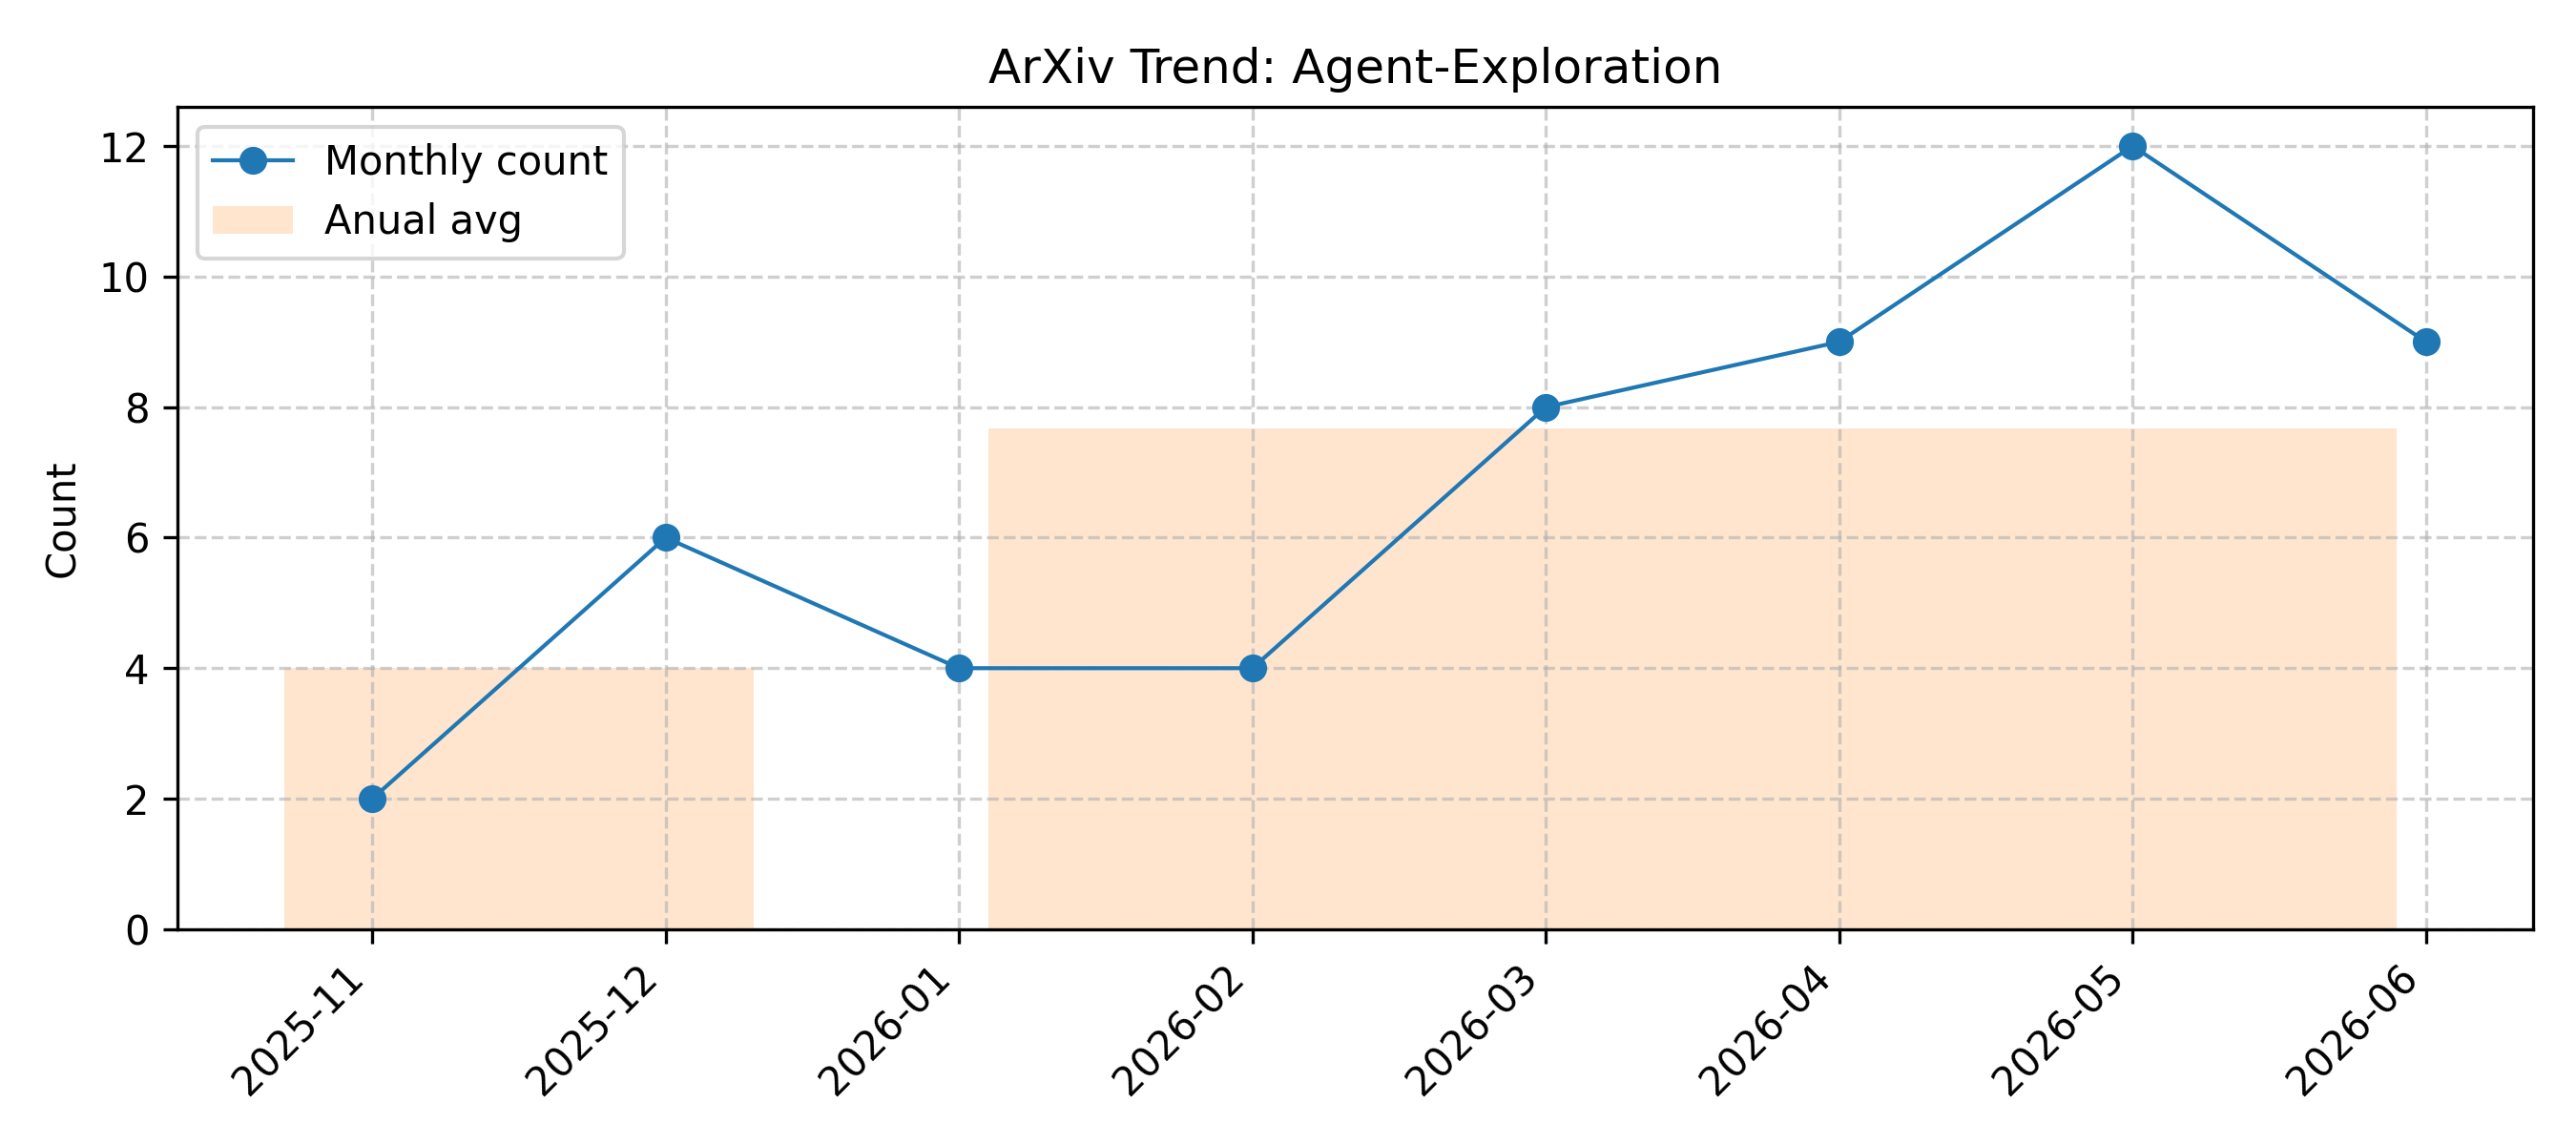
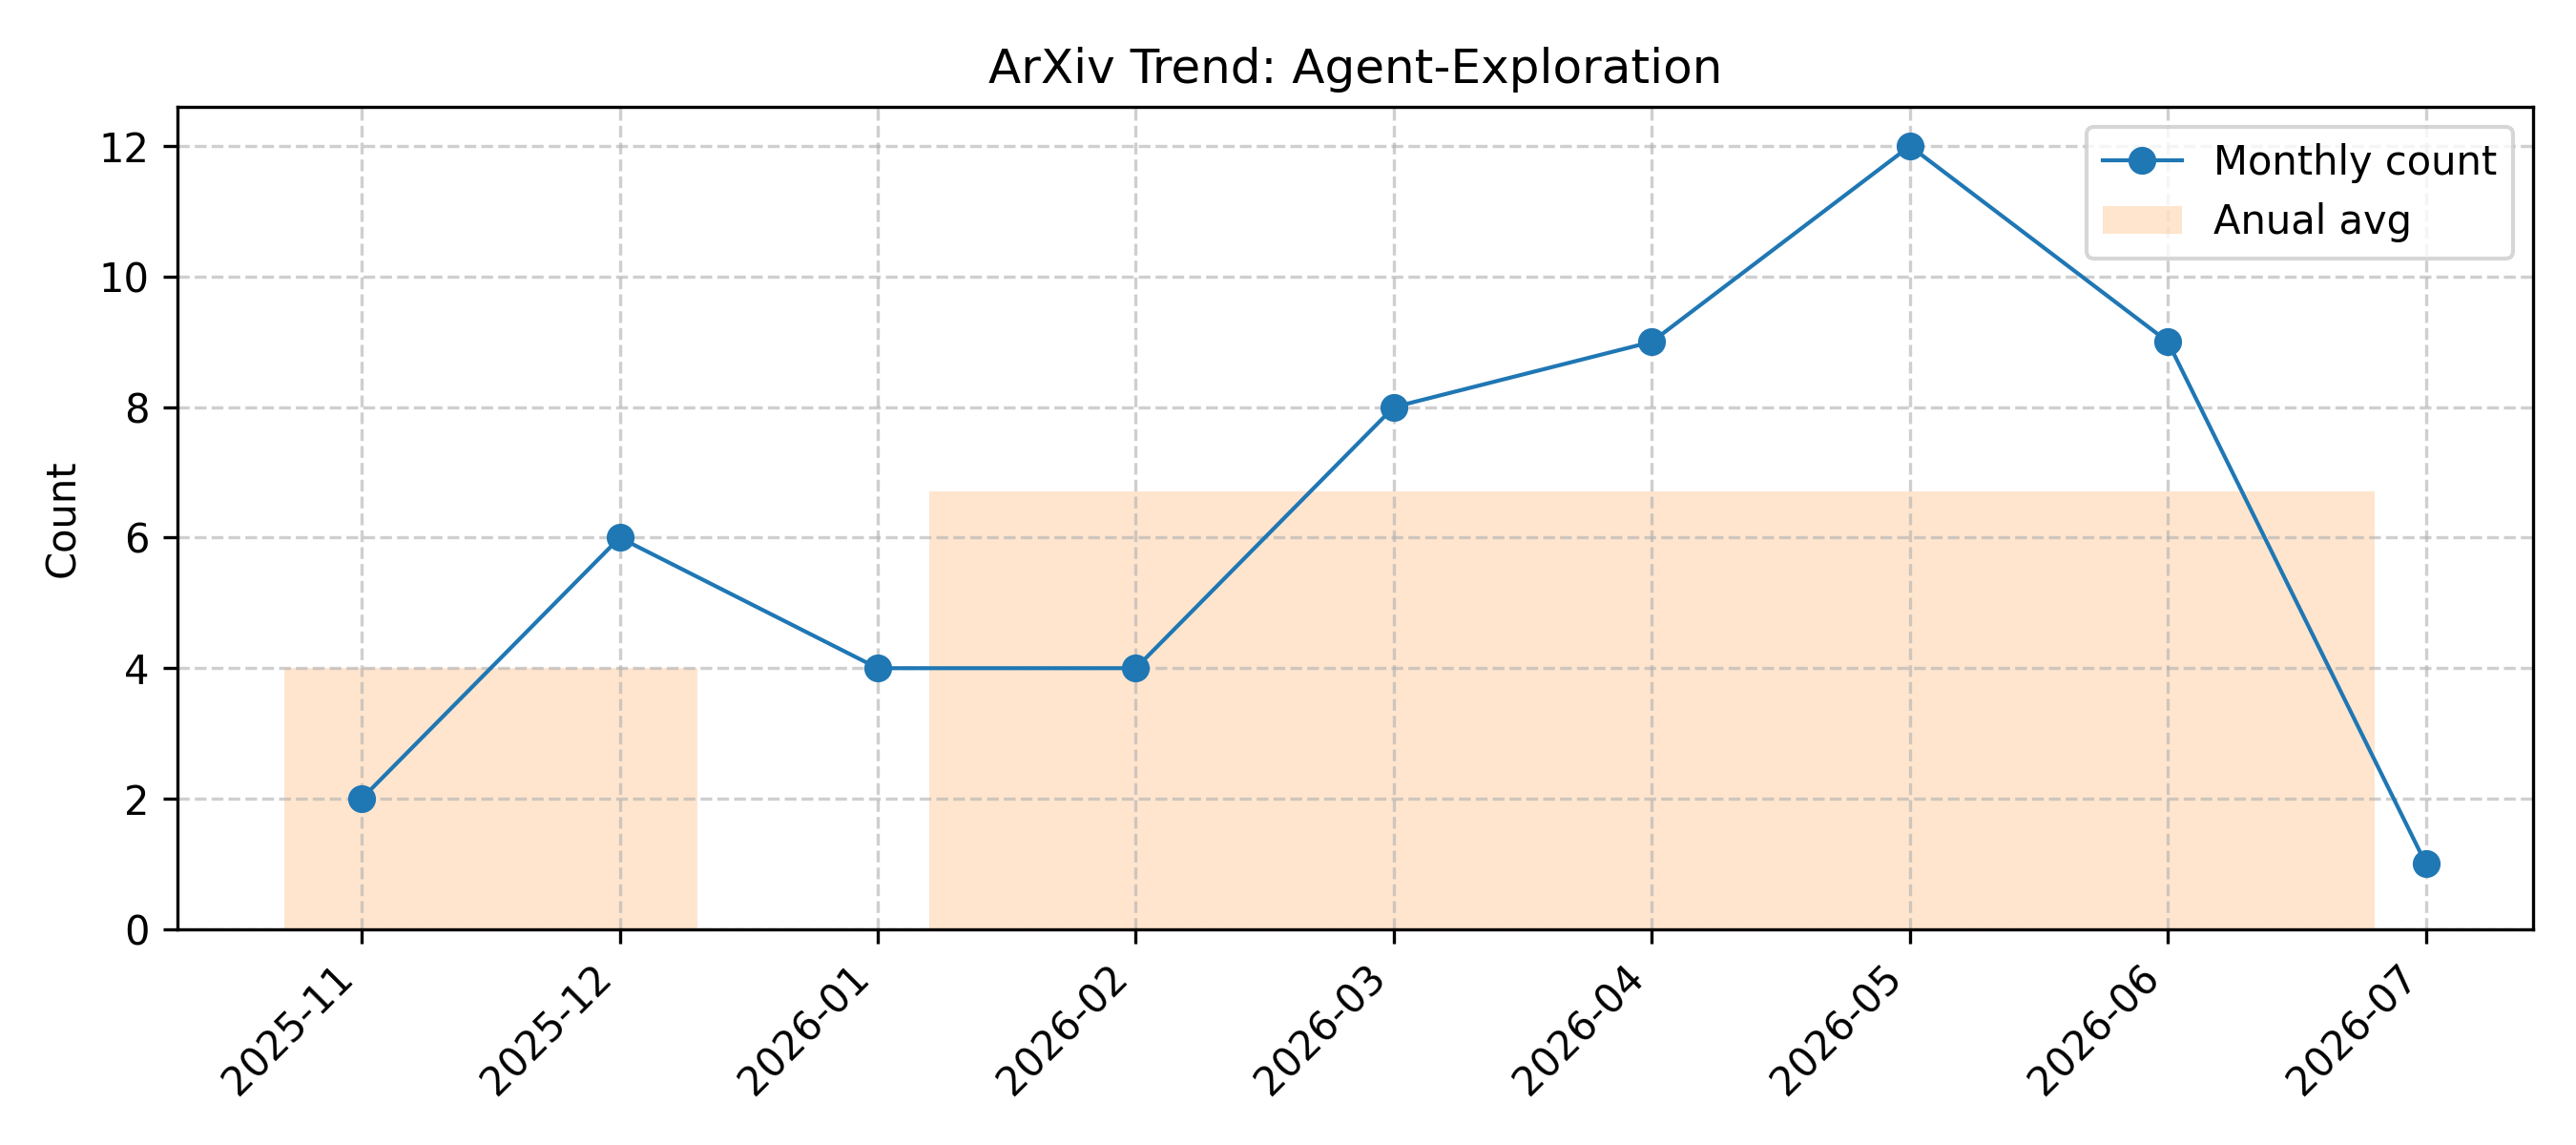
Github Action Automatic Update Arxiv Papers

diff --git a/CodeGeneration_LLM.md b/CodeGeneration_LLM.md
@@ -1,6 +1,6 @@
 # CodeGeneration_LLM
 
-> Updated on 2026.07.08
+> Updated on 2026.07.10
 
 [🔙 Back to Index](README.md)
 
@@ -8,6 +8,11 @@
 
 | Date | Title | Categories | Abstract | PDF | Code |
 |:---|:---|:---|:---|:---|:---|
+|**2026-07-09**|**Tool-Making and Self-Evolving LLM Agents in Low-Latency Systems**|cs.CL, cs.LG, cs.SE| <details><summary>Full Abstract</summary>Production LLM agents often waste latency and reliability by regenerating code for the same procedural steps on every request. We replace this inference-time coding loop with an agentic tool-making pipeline that compiles repeated SOP steps into validated, versioned tools before deployment. The tool-maker grounds synthesis in the live environment as it collects execution traces, observes backend schemas and values, generates candidate tools, and repairs them against labeled cases. At runtime, the production agent calls these tools directly and falls back to code generation only when needed. We deploy the approach in a Fulfillment Center alarm-triage system, where an agent diagnoses alarms against a 44-node SOP over heterogeneous metric backends. In production, tool calls reduce p50 latency by 42%. On 1,500 historical alarms, they reduce end-to-end error rate by up to 53% by suppressing run-to-run variance in repeated steps. Because tools return compact structured verdicts, they also enable a simpler direct-call architecture, reducing p50 latency by a further 62% in a controlled ablation. Versioned tools also improve auditability and expose specification gaps and upstream data drift. Our results show that self-evolving agents can make industrial LLM systems faster, more reliable, and easier to operate.</details>|[2607.08010v1](http://arxiv.org/abs/2607.08010v1)| null|
+|**2026-07-08**|**Functional and Secure Code Generation with Task Vectors**|cs.SE, cs.CR, cs.LG| <details><summary>Full Abstract</summary>Large language models (LLMs) are increasingly used for code generation, but they struggle to generate functional code free of security vulnerabilities. Prior work to improve the secure code generation abilities of such coding LLMs has largely focused on evaluating code functionality and security separately using different datasets, or focused on finding vulnerabilities post-generation. At the same time, the text-generation domain has seen significant work on alignment techniques, where models are tuned such that their outputs exhibit certain qualities (e.g., helpfulness, harmlessness). Of particular interest is task-vector arithmetic, where linear operations on LLM weights can be used to arbitrarily enhance alignment while incurring only minimal computational overhead. We develop a novel method, SecVecCoder, leveraging task vectors to produce trustworthy code that is simultaneously functional and secure without the need for post-generation adjustment. Across six coding LLMs from three families on the CodeGuard+ benchmark, SecVecCoder improves the rate of trustworthy code completions by 2.1-36.0 percentage points over the base model, with improvements on unseen CWE types reaching up to 39.1 percentage points. Since the effectiveness of the coding LLM relies only on changing the model weights, SecVecCoder requires no method-specific decoding and hence achieves a decoding latency within 0.6% of the base model's, on average.</details>|[2607.07881v1](http://arxiv.org/abs/2607.07881v1)| null|
+|**2026-07-08**|**Selective Left-Shift: Turning Test-Time Compute and Difficulty-based Curation into Training Data for Low-Resource Code Generation**|cs.LG| <details><summary>Full Abstract</summary>Large Language Models achieve strong code generation for high resource languages like Python and Java but suffer sharp performance drops on Low-Resource Programming Languages~(LRPLs) such as Julia. Improving Small Language Models~(SLMs) for these languages faces a trilemma: Supervised Fine-Tuning~(SFT) is bottlenecked by data scarcity, inference-time scaling is too expensive for deployment, and Reinforcement Learning from scratch yields near zero advantages. We propose a three-phase pipeline that resolves this trilemma by decoupling syntax acquisition from algorithmic reasoning. First, we \emph{left-shift} inference-time compute to an offline data synthesis engine that uses iterative compiler and test feedback to generate verified training examples. Second, we fine-tune an SLM on this synthetic, verified data to embed strong syntactic priors. Third, we apply Reinforcement Learning with Verifiable Reward~(RLVR) grounded by language-agnostic Input/Output tests, where the SFT prior constrains exploration away from syntax errors. Applied to Qwen3-8B, our pipeline improves pass@1 by up to +7.6 points on MultiPL-E and +14.2 points on the Agnostics LiveCodeBench for Julia compared to SOTA results. Furthermore, the pipeline only used $\frac{1}{3}$ data and $\frac{1}{6}$ cost over the previous state-of-the-art. We further demonstrate that the pipeline generalizes to Ballerina achieving 49.7\% MultiPL-E Pass@1, a language with near-zero pretraining representation. Ablations confirm that both the SFT phase and execution-grounded rewards are necessary for stable training.</details>|[2607.07748v1](http://arxiv.org/abs/2607.07748v1)| null|
+|**2026-07-08**|**The Blind Curator: How a Biased Judge Silently Disables Skill Retirement in Self-Evolving Agents**|cs.AI, cs.CL, cs.CR| <details><summary>Full Abstract</summary>A self-evolving agent retires its bad skills by watching them fail, so what happens when the judge cannot see the failures? Skill retirement is the structural constraint that keeps a growing library from drifting below the no-skill baseline, but its guarantee assumes an unbiased reward, which is false for the LLM judges that reference-free tasks force upon us. We show that a biased judge does not merely add noise; it \emph{silently switches off the curator}. We make this precise with a corrupted-reward analysis and, isolating the causal channel by injecting corruption on top of a deterministic reward, a behavioral study on a reference-free report-writing testbed with a code-generation cross-check. Symmetric noise leaves retirement intact, but \emph{false-pass} bias (failures slipping through as passes) disables contribution-based retirement past a sharp threshold that no amount of data can cross. Separating genuine retirement from cap-eviction churn shows this \emph{mechanism} failure is universal, holding across domains and failure rates and sparing only near-zero-false-pass, verifier-like graders. The downstream \emph{outcome}, though, is regime-dependent: eval quality degrades only where the same corruption also starves skill synthesis, and otherwise holds steady, so the disabled curator is \emph{silent}, surfacing in no aggregate metric. The contribution is a behavioral safety result, not a performance one. A cheap defect-injection audit then tells an operator, before deployment, which side of the threshold their judge occupies.</details>|[2607.07436v1](http://arxiv.org/abs/2607.07436v1)| null|
+|**2026-07-08**|**Large Language Models (LLMs) and Generative AI in Cybersecurity and Privacy: A Survey of Dual-Use Risks, AI-Generated Malware, Explainability, and Defensive Strategies**|cs.CR, cs.AI, cs.CL| <details><summary>Full Abstract</summary>Large Language Models (LLMs) and generative AI (GenAI) systems, such as ChatGPT, Claude, Gemini, LLaMA, Copilot, Stable Diffusion by OpenAI, Anthropic, Google, Meta, Microsoft, Stability AI, respectively, are revolutionizing cybersecurity, enabling both automated defense and sophisticated attacks. These technologies power real-time threat detection, phishing defense, secure code generation, and vulnerability exploitation at unprecedented scales. Following a rapid surge where LLM-generated malware grew to account for an estimated 50% of detected threats by 2025, up from just 2% in 2021, navigating this highly automated threat landscape in 2026 demands next-generation security frameworks. This paper presents a comprehensive survey of the beneficial and malicious applications of LLMs in cybersecurity, including zero-day detection, DevSecOps, federated learning, synthetic content analysis, and explainable AI (XAI). Drawing on a review of over 70 academic papers, industry reports, and technical documents, this work synthesizes insights from real-world case studies across platforms like Google Play Protect, Microsoft Defender, Amazon Web Services (AWS), Apple App Store, OpenAI Plugin Stores, Hugging Face Spaces, and GitHub, alongside emerging initiatives like the SAFE Framework and AI-driven anomaly detection. We conclude with practical recommendations for responsible and transparent LLM deployment and trustworthy AI, including model watermarking, adversarial defense, and cross-industry collaboration, setting a new benchmark for rigorous, holistic cybersecurity research at the intersection of AI and threat defense, and offering a roadmap for secure, scalable LLM systems that serves as a critical reference for researchers, engineers, and security leaders navigating the complex challenges of AI-driven cybersecurity.</details>|[2607.06963v1](http://arxiv.org/abs/2607.06963v1)| null|
 |**2026-07-07**|**FreqDepthKV: Frequency-Guided Depth Sharing for Robust KV Cache Compression in Long-Context LLM Inference**|cs.AI| <details><summary>Full Abstract</summary>Long-context LLM inference is increasingly limited by the memory and bandwidth cost of KV caches, yet aggressive compression can remove the layer-specific evidence needed for retrieval and multi-step reasoning. We introduce FreqDepthKV, an inference-time cache compression method that factorizes adjacent-layer KV states into shared low-frequency depth components and sparse high-frequency residuals. A lightweight online probe assigns attention heads to shared-depth, residual-depth, or exact cache modes according to their contribution to reconstruction-sensitive attention logits, allowing the compression policy to adapt to prompt structure without retraining. Across long-context question answering, needle retrieval, summarization, and code generation benchmarks, FreqDepthKV preserves task accuracy under substantially smaller cache budgets. With a 32k-token prefill window, FreqDepthKV reaches 58.3 Exact Match, 63.0 F1, 32.5 ROUGE-L, and 48.1 pass@1, closely matching full KV while outperforming prior compressed-cache methods. It also improves decoding throughput to 70.4 tokens/s, reduces TTFT to 2.06 seconds, and lowers peak KV memory to 6.2 GB, achieving a 3.9x effective compression ratio.</details>|[2607.06519v1](http://arxiv.org/abs/2607.06519v1)| null|
 |**2026-07-07**|**Evaluating Fine-Tuning and Metrics for Neural Decompilation of Dart AOT Binaries**|cs.SE, cs.AI, cs.CR| <details><summary>Full Abstract</summary>Neural decompilation is increasingly studied as a code-generation problem, yet its evaluation methodology remains underdeveloped for modern languages. We present a systematic empirical study of fine-tuning effectiveness and metric validity for Dart Ahead-of-Time (AOT) neural decompilation. We evaluate six fine-tuned model variants across three base architectures (4B-8B parameters) using three metrics: CodeBLEU, compile@k, and pass@k on a new 154-task HumanEval-Dart benchmark. Our study yields three principal findings grounded in paired task-level statistical tests. First, no fine-tuning configuration produces a statistically significant pass@k improvement. The sole positive case yields +0.71 pp (McNemar p=0.21), while fine-tuning the strongest base (Qwen3-8B) causes a highly significant regression of -5.65 pp (p<0.001). This capacity-dependent trend is consistent across architectures but needs broader scale sweeps. Second, cross-lingual interference from Swift training is highly significant at 4B (-2.66 pp, p<0.001) but statistically indistinguishable from zero at 8B, consistent with the scaling hypothesis. Third, we demonstrate metric divergence: CodeBLEU and compile@k can improve significantly while pass@k moves in the opposite direction. This has implications for any LLM code generation task where fine-tuning targets superficial similarity. Error analysis reveals assembly sequence length is the strongest predictor of task difficulty (p=0.001), with a capability cliff at 200 instructions. We contribute the HumanEval-Dart benchmark, a Dart-adapted CodeBLEU, and empirical evidence that pass@k must be the primary evaluation metric for neural decompilation.</details>|[2607.06125v1](http://arxiv.org/abs/2607.06125v1)| null|
 |**2026-07-07**|**Prompt Coach: An Empirical Evaluation of an Agentic Tutor for Learning Prompt Engineering in Software Development**|cs.SE, cs.AI, cs.CY, cs.HC| <details><summary>Full Abstract</summary>Prompt engineering has emerged as a critical yet undertaught skill for software developers, one that traditional learning approaches are ill-equipped to support given its evolving, interactive, and context-dependent nature. In this paper, we introduce Prompt Coach (PC), an agentic tutor that helps developers learn how to craft high-quality code-generation prompts through Socratic guidance embedded in-flow within their IDE. PC evaluates prompt quality across multiple dimensions and surfaces targeted questions to guide self-correction, grounded in the developer's codebase and the behavior of the target LLM. We present an early empirical study with 15 professional developers combining quantitative prompt quality scoring with qualitative perception measures. Participants showed statistically significant improvements after a single 60-minute session, with the largest gains across dimensions commonly overlooked by developers. They also reported strong trust, high adoption readiness, and unanimous agreement that PC improved their prompt-writing skills.</details>|[2607.06074v1](http://arxiv.org/abs/2607.06074v1)| null|

diff --git a/Agent-Exploration.md b/Agent-Exploration.md
@@ -1,6 +1,6 @@
 # Agent-Exploration
 
-> Updated on 2026.07.08
+> Updated on 2026.07.10
 
 [🔙 Back to Index](README.md)
 
@@ -8,6 +8,7 @@
 
 | Date | Title | Categories | Abstract | PDF | Code |
 |:---|:---|:---|:---|:---|:---|
+|**2026-07-08**|**Progressive Crystallization: Turning Agent Exploration into Deterministic, Lower-Cost Workflows in Production**|cs.SE, cs.AI, cs.DC, cs.ET, cs.MA| <details><summary>Full Abstract</summary>AI agents deployed for IT operations are typically permanent cost centers because every execution requires full LLM inference, even for previously solved problems. This paper introduces progressive crystallization, a lifecycle that treats agent exploration as a discovery mechanism rather than a permanent execution model. It defines a three-stage execution taxonomy, from fully agent-orchestrated to hybrid to fully deterministic workflows, together with an evidence-based promotion mechanism that converts repeatedly validated agent behaviors into cheaper and more reproducible deterministic workflows, while automatically demoting workflows that regress. Evaluated on a production cloud networking AIOps system processing tens of thousands of incidents per month, the approach increased deterministic execution from 0% to 45% over eight months, reduced per-incident agent costs by more than 70% despite doubling incident volume, and improved safety through greater reproducibility and auditability. The paper also presents the execution taxonomy, promotion and demotion criteria, trace extraction methodology, economic model, safety considerations, and discusses limitations and threats to validity.</details>|[2607.07052v1](http://arxiv.org/abs/2607.07052v1)| null|
 |**2026-06-24**|**Implementation of reinforcement learning in chemical reaction networks: application to phototaxis as curiosity-driven exploration**|cs.LG, q-bio.QM| <details><summary>Full Abstract</summary>Living systems navigate environments using noisy and incomplete sensory signals. In unicellular algae, phototaxis is often modeled as a mechanistic run--tumble process driven by stimulus--response rules. However, such descriptions overlook how organisms actively sample their environment to reduce sensory ambiguity. From a minimal cognition perspective, we reframe this navigation as a subjective, information-driven sensorimotor process. To this end, we propose a framework linking a Partially Observable Markov Decision Process (POMDP) with biochemical reaction dynamics. Environmental variables are hidden, while the cell updates a minimal internal state from each observation through a memoryless Bayesian step. These internal dynamics balance orienting toward light with exploratory reorientation and can be implemented through Chemical-Reaction-Network Ordinary Differential Equations (CRN--ODEs). Our model includes a biophysical observation process for photoreception and a chemically computable polynomial bound on information gain. Using Inverse Reinforcement Learning (IRL) on 30 experimentally recorded Chlamydomonas trajectories, we infer the behavioral objective consistent with observed phototactic motion and benchmark the resulting dynamics with standard Stochastic Simulation Algorithm (SSA) baselines. Our model reproduces the empirical alignment-to-light distribution, comparable to objective SSA baselines on this dataset. Within this framework, run--tumble alternation emerges as an information-acquisition strategy: tumbling reorients the cell to sample new sensory configurations and resolve sensor ambiguity, demonstrating how intracellular biochemical networks can support adaptive information-seeking behavior in cellular navigation.</details>|[2606.26168v1](http://arxiv.org/abs/2606.26168v1)| null|
 |**2026-06-23**|**AGORA: An Archive-Grounded Benchmark for Agentic Workplace Document Reasoning**|cs.CL| <details><summary>Full Abstract</summary>Large language models are increasingly deployed as agents that reason over documents rather than answer from parametric knowledge. We study archive-grounded reasoning: locating sparse evidence across a large, messy collection of workplace files, reconciling inconsistent terminology, units, and time conventions, and computing an answer. Existing benchmarks address only parts of this setting and none jointly stresses archive-groundedness, agentic exploration, and cross-domain coverage. We introduce Agora, a benchmark pairing 362 questions with eight domain collections of 9,664 authentic documents and 372M tokens, far exceeding any model's context window, so agents must explore deliberately rather than scan exhaustively. Agora is built by an agentic pipeline combining cross-document task synthesis, leakage-preventing obfuscation, and difficulty filtering. Evaluating eight models, we find the task far from solved: even the strongest reaches only 59.4% accuracy, with notable variation across domains.</details>|[2606.24526v1](http://arxiv.org/abs/2606.24526v1)| null|
 |**2026-06-23**|**Escaping the Self-Confirmation Trap: An Execute-Distill-Verify Paradigm for Agentic Experience Learning**|cs.CL| <details><summary>Full Abstract</summary>Experience-driven self-evolution is critical for large language model (LLM) agents to improve through open-world interaction. However, existing experience learning methods mostly rely on single-agent loops, where the same agent executes tasks, summarizes outcomes, and determines memory content. This setup makes agents vulnerable to the Self-Confirmation Trap: wrong-but-self-consistent trajectories are misidentified as successful experience, leading to cumulative errors during retrieval and reuse. To address this issue, we propose EDV, an Execute-Distill-Verify framework for reliable experience learning. In the Execute stage, multiple heterogeneous agents explore the same task space in parallel to generate diverse candidate trajectories. In the Distill stage, a dedicated third-party agent comparatively analyzes these trajectories to produce candidate experiences, reducing executor-centric summarization bias. In the Verify stage, the execution group validates candidates via a consensus mechanism, and only approved experiences are written into shared or private memory. By decoupling the three stages, EDV transforms experience learning from isolated self-reflection into collaborative construction, filtering erroneous and noisy content before memory insertion. We evaluate EDV on three challenging long-horizon benchmarks: tau2-bench, Mind2Web and MMTB. Results show EDV consistently outperforms strong baselines, validating that reliable experience construction is essential for robust agent self-evolution. Our code is available at https://github.com/shidingz/EDV.</details>|[2606.24428v1](http://arxiv.org/abs/2606.24428v1)| null|

diff --git a/Latent_Reasoning.md b/Latent_Reasoning.md
@@ -1,6 +1,6 @@
 # Latent_Reasoning
 
-> Updated on 2026.07.08
+> Updated on 2026.07.10
 
 [🔙 Back to Index](README.md)
 
@@ -8,6 +8,7 @@
 
 | Date | Title | Categories | Abstract | PDF | Code |
 |:---|:---|:---|:---|:---|:---|
+|**2026-07-07**|**Final Checkpoints Are Not Enough: Analyzing Latent Reasoning Faithfulness Along Training Trajectories**|cs.LG, cs.CL| <details><summary>Full Abstract</summary>Latent reasoning methods perform multi-step inference entirely in the model's continuous hidden states, promising more compact and efficient reasoning. However, these opaque hidden states raise a question of faithfulness: whether these latent reasoning steps causally drive the final answer. Prior work investigates this question at converged checkpoints and reports several unfaithful behaviors, such as latent reasoning steps that can be replaced without changing the answer, but leaves how these behaviors form during training unexamined. We instead track how faithfulness evolves across saved checkpoints for different latent reasoning paradigms, applying a verifiable counterfactual edit on the input and a noise-ablation activation patch on the latent reasoning steps. We find that (i) at the output level, latent reasoning methods can look similarly unfaithful at convergence under counterfactual edits while following qualitatively divergent trajectories; (ii) at the activation level, the causal contribution of latent reasoning steps to the final answer decays across training for both paradigms, with the examples that flip on the output side in (i) also being the examples on which this contribution decays; and (iii) the activation-level trajectory diverges by answer format, decaying on binary choice and rising on open-ended decoding. These findings highlight that latent reasoning faithfulness depends on training stage and answer format.</details>|[2607.06648v1](http://arxiv.org/abs/2607.06648v1)| null|
 |**2026-06-29**|**Why Struggle with Continuous Latents? Interpretable Discrete Latent Reasoning via Rendered Compression**|cs.CL| <details><summary>Full Abstract</summary>Large language models achieve high reasoning performance via explicit chain-of-thought and reinforcement learning, but require long output sequences and extended inference time. Latent reasoning reduces this cost by shifting computation into a latent space; however, continuous latent methods are hard to train, suffering from unstable and uninterpretable reasoning trajectories. We argue these issues stem from a misalignment between continuous-space reasoning and discrete symbolic supervision, as continuous states lack explicit anchors for step-by-step alignment. To resolve this, we propose \textbf{Discrete Latent Reasoning~(DLR)}, the first method that converts continuous latent states into explicit discrete tokens. Inspired by render-based compression, we render textual chains of thought into images, extract visual features, and construct a discrete latent vocabulary via clustering-based fine-tuning. Expanding the vocabulary and output head enables standard autoregressive modeling over both natural language and latent tokens, supporting pretraining alignment, SFT, and RL. Experiments on five reasoning benchmarks and two model series~(Qwen3-VL and LLaMA-3) confirm that \textbf{DLR} outperforms prior latent reasoning baselines with up to \textbf{20$\times$ compression}. Furthermore, the learned latent trajectories retain an interpretable semantic structure. Overall, discrete latent tokens provide a controllable and interpretable basis for efficient latent reasoning.</details>|[2606.29712v1](http://arxiv.org/abs/2606.29712v1)| null|
 |**2026-06-18**|**What Makes Effective Supervision in Latent Chain-of-Thought: An Information-Theoretic Analysis**|cs.LG, cs.CL| <details><summary>Full Abstract</summary>Latent Chain-of-Thought (CoT) internalizes reasoning within continuous hidden states, offering a promising alternative to verbose discrete reasoning traces. However, robust latent reasoning remains difficult because outcome supervision provides weak learning signals and leaves latent trajectories prone to semantic drift. In this work, we analyze Latent CoT from an information-theoretic perspective and identify this failure as a dual collapse: gradient attenuation along the optimization path and representational drift in the latent space. We further decompose process supervision into two complementary dimensions: Trajectory Supervision, which injects dense stepwise reasoning signals, and Space Supervision, which preserves the semantic structure of the latent manifold. Our analysis shows that rigid geometric compression can collapse the reasoning space, whereas generative reconstruction provides a more flexible semantic anchor that better preserves information capacity. To measure these effects, we introduce the Unified Latent Probe (ULP), which quantifies the mutual information between latent trajectories and explicit reasoning steps. Experiments reveal a clear Information-Performance Binding: reasoning accuracy depends on the information fidelity preserved in the latent chain. These findings provide a principled framework for latent reasoning supervision and suggest shifting from geometric imitation toward mutual information maximization. Our code is available at \href{https://github.com/EIT-NLP/Supervision-in-Latent-CoT}{this repository}.</details>|[2606.20075v1](http://arxiv.org/abs/2606.20075v1)| null|
 |**2026-06-15**|**Tyler: Typed Latent Reasoning for Language Models -- When to Think, What to Compute, and How Much to Allocate**|cs.CL, cs.AI| <details><summary>Full Abstract</summary>Chain-of-thought (CoT) prompting improves reasoning in large language models (LLMs) by externalizing intermediate computation as discrete text tokens, but this textual interface also introduces redundancy and inference overhead. Latent reasoning offers a promising alternative by carrying part of the computation in continuous representations. However, existing methods typically predefine when latent computation is invoked and how it is allocated during decoding, leaving a key problem unresolved: when to invoke latent computation, what type of computation to perform, and how much budget to allocate. We propose \textbf{Ty}ped \textbf{L}at\textbf{e}nt \textbf{R}easoning (Tyler), a typed and budget-aware framework for latent reasoning during autoregressive decoding. Tyler learns a policy that, at each decoding step, chooses between emitting a text token and switching to a latent computation module specialized for a particular reasoning function. Once invoked, an operator maps the current reasoning state into latent tokens that support global planning, local state updates, or reusable procedural abstraction. Across extensive experiments on three backbone LLMs, Tyler improves accuracy by up to 14.49 points over CoT and by up to 4.30 points over the strongest competing baseline. It further generalizes across diverse reasoning domains and achieves the best final-stage performance with the lowest forgetting.</details>|[2606.16360v1](http://arxiv.org/abs/2606.16360v1)| null|

diff --git a/GUI_LLM_RL_MA.md b/GUI_LLM_RL_MA.md
@@ -1,6 +1,6 @@
 # GUI_LLM_RL_MA
 
-> Updated on 2026.07.08
+> Updated on 2026.07.10
 
 [🔙 Back to Index](README.md)
 

diff --git a/MA-CoEvo-RL.md b/MA-CoEvo-RL.md
@@ -1,6 +1,6 @@
 # MA-CoEvo-RL
 
-> Updated on 2026.07.08
+> Updated on 2026.07.10
 
 [🔙 Back to Index](README.md)
 

diff --git a/MA-CoEvo.md b/MA-CoEvo.md
@@ -1,6 +1,6 @@
 # MA-CoEvo
 
-> Updated on 2026.07.08
+> Updated on 2026.07.10
 
 [🔙 Back to Index](README.md)
 

diff --git a/README.md b/README.md
@@ -1,6 +1,6 @@
 # Daily ArXiv Papers
 
-> Last Updated: 2026.07.08
+> Last Updated: 2026.07.10
 
 This project provides daily updates on ArXiv papers regarding Multi-Agent LLMs, GUI Testing, and Code Generation. It builds upon the work of @bansky-cl, with refinements by @bbc00710086, and is currently deployed and maintained by zzz.
 